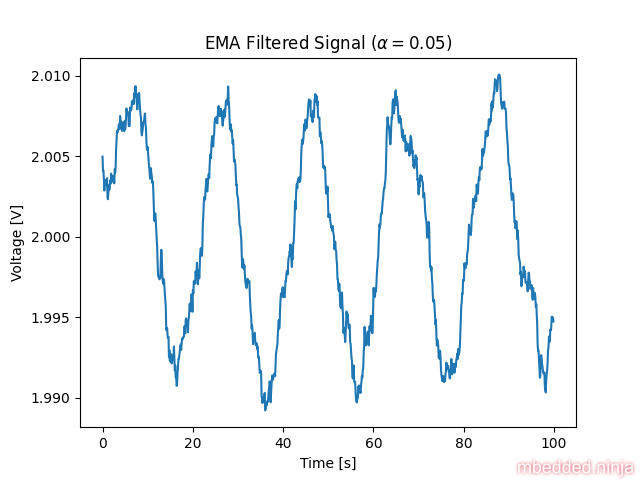
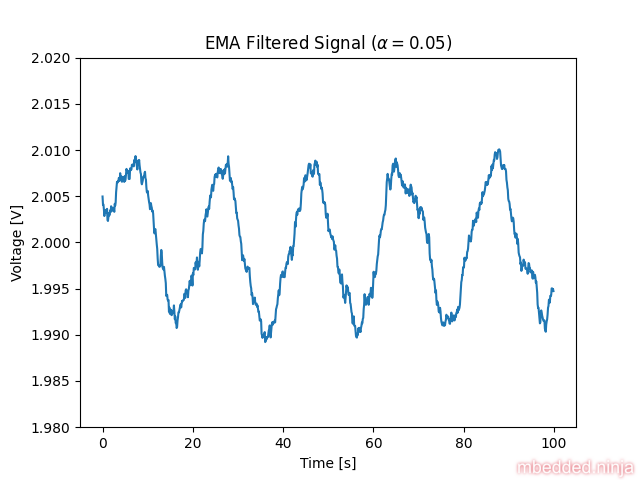
Add more graphs to the mains noise simulation page.

diff --git a/src/content/pages/programming/signal-processing/removing-mains-noise-from-adc-measurements/_assets/mains-noise-simulation/main.py b/src/content/pages/programming/signal-processing/removing-mains-noise-from-adc-measurements/_assets/mains-noise-simulation/main.py
@@ -2,6 +2,7 @@ from pathlib import Path
 
 import matplotlib.pyplot as plt
 import numpy as np
+from scipy import signal
 
 import util
 
@@ -23,6 +24,10 @@ def main():
     DIGITAL_SAMPLING_PERIOD_S = 0.1001
 
     total_sim_time_s = (NUM_DIGITAL_SAMPLES - 1) * DIGITAL_SAMPLING_PERIOD_S
+
+    #=========================================
+    # Analogue signal
+    #=========================================
 
     # Create graph of what the analog signal looks like. Need to make sure we sample well above the Nyquist frequency
     # Given the mains is 50Hz, lets have a sample interval of 1ms
@@ -58,6 +63,10 @@ def main():
     util.add_watermark_to_fig(fig)
     plt.savefig(SCRIPT_DIR / "analogue-signal-zoomed.png")
 
+    #=========================================
+    # Raw digital sampling
+    #=========================================
+
     # Now linearly interpolate the analogue signal to the digital sampling times
     digital_sampling_times_s = np.arange(0, total_sim_time_s, DIGITAL_SAMPLING_PERIOD_S)
     digital_signal = np.interp(digital_sampling_times_s, analogue_sampling_times_s, analogue_signal)
@@ -86,11 +95,157 @@ def main():
     ax.set_title(f"EMA Filtered Signal ($\\alpha = {alpha}$)")
     ax.set_xlabel("Time [s]")
     ax.set_ylabel("Voltage [V]")
+    DELTA_Y = 20e-3 # 20mV
+    ax.set_ylim(2 - DELTA_Y, 2 + DELTA_Y)
     util.add_watermark_to_fig(fig)
     plt.savefig(SCRIPT_DIR / "filtered-signal.png")
 
-    
+    #=========================================
+    # Add jitter
+    #=========================================
 
+    MAX_JITTER_AMOUNT_S = 20*1e-3 # 20ms of jitter, so measurement interval will be in the range [80, 120]ms.
+
+    jittered_sampling_times_s = []
+    current_time_s = 0
+    jittered_samples = []
+    while current_time_s < total_sim_time_s:
+        sampling_interval_s = DIGITAL_SAMPLING_PERIOD_S + np.random.uniform(-MAX_JITTER_AMOUNT_S, MAX_JITTER_AMOUNT_S)
+        jittered_sampling_times_s.append(current_time_s + sampling_interval_s)
+        current_time_s += sampling_interval_s
+        jittered_samples.append(np.interp(current_time_s, analogue_sampling_times_s, analogue_signal))
+
+    # Plot the jittered signal
+    fig, ax = plt.subplots()
+    ax.plot(jittered_sampling_times_s, jittered_samples)
+    ax.set_title("Jittered Signal")
+    ax.set_xlabel("Time [s]")
+    ax.set_ylabel("Voltage [V]")
+    ax.set_ylim(2 - DELTA_Y, 2 + DELTA_Y)
+    util.add_watermark_to_fig(fig)
+    plt.savefig(SCRIPT_DIR / "jittered-signal.png")
+
+    # Now filter the jittered signal
+    filtered_jittered_samples = filter_signal(jittered_samples, 0.05)
+
+    # Plot the filtered jittered signal
+    fig, ax = plt.subplots()
+    ax.plot(jittered_sampling_times_s, filtered_jittered_samples)
+    ax.set_title(f"EMA Filtered Jittered Signal ($\\alpha = {alpha}$)")
+    ax.set_xlabel("Time [s]")
+    ax.set_ylabel("Voltage [V]")
+    ax.set_ylim(2 - DELTA_Y, 2 + DELTA_Y)
+    util.add_watermark_to_fig(fig)
+    plt.savefig(SCRIPT_DIR / "filtered-jittered-signal.png")
+
+    #=========================================
+    # Sample in phase with the mains
+    #=========================================
+
+    # Now sample every 100ms, which will be in phase with the 20ms mains period
+    SAMPLE_IN_PHASE_INTERVAL_S = 100e-3
+    sampled_in_phase_times_s = []
+    sampled_in_phase_samples = []
+    current_time_s = 0
+    while current_time_s < total_sim_time_s:
+        sampled_in_phase_times_s.append(current_time_s)
+        sampled_in_phase_samples.append(np.interp(current_time_s, analogue_sampling_times_s, analogue_signal))
+        current_time_s += SAMPLE_IN_PHASE_INTERVAL_S
+
+    # Plot the sampled in phase signal
+    fig, ax = plt.subplots()
+    ax.plot(sampled_in_phase_times_s, sampled_in_phase_samples)
+    ax.set_title("\"Sampled in Phase\" Signal")
+    ax.set_xlabel("Time [s]")
+    ax.set_ylabel("Voltage [V]")
+    ax.set_ylim(2 - DELTA_Y, 2 + DELTA_Y)
+    util.add_watermark_to_fig(fig)
+    plt.savefig(SCRIPT_DIR / "sampled-in-phase-signal.png")
+
+    # Now filter the sampled in phase signal
+    filtered_sampled_in_phase_samples = filter_signal(sampled_in_phase_samples, 0.05)
+
+    # Plot the filtered sampled in phase signal
+    fig, ax = plt.subplots()
+    ax.plot(sampled_in_phase_times_s, filtered_sampled_in_phase_samples)
+    ax.set_title(f"EMA Filtered \"Sampled in Phase\" Signal ($\\alpha = {alpha}$)")
+    ax.set_xlabel("Time [s]")
+    ax.set_ylabel("Voltage [V]")
+    ax.set_ylim(2 - DELTA_Y, 2 + DELTA_Y)
+    util.add_watermark_to_fig(fig)
+    plt.savefig(SCRIPT_DIR / "filtered-sampled-in-phase-signal.png")
+
+    #=========================================
+    # Add an anti-aliasing filter
+    #=========================================
+
+    # Now simulate a low-pass RC filter with a cut-off frequency of 1Hz
+    RC_TIME_CONSTANT_S = 1e-3
+    # Note: This RC constant (1ms) corresponds to a cutoff frequency of approx. 159 Hz.
+    # The following code implements the requested 1Hz cutoff filter.
+
+    cutoff_freq_hz = 1.0  # Desired cutoff frequency for the RC filter
+    sampling_freq_hz = 1.0 / ANALOG_SAMPLING_PERIOD_S
+
+    # Design a 1st order Butterworth filter (equivalent to an RC filter)
+    # Normalize the cutoff frequency by the Nyquist frequency
+    nyquist_freq_hz = 0.5 * sampling_freq_hz
+    normalized_cutoff = cutoff_freq_hz / nyquist_freq_hz
+    
+    # Get the filter coefficients (numerator b, denominator a)
+    # For a first-order filter, N=1
+    b_rc, a_rc = signal.butter(1, normalized_cutoff, btype='low', analog=False)
+
+    # Apply the filter to the analogue signal
+    # signal.filtfilt applies the filter forwards and backwards, resulting in zero phase distortion
+    analogue_signal_rc_filtered = signal.filtfilt(b_rc, a_rc, analogue_signal)
+
+    # Plot the RC filtered analogue signal
+    fig, ax = plt.subplots()
+    ax.plot(analogue_sampling_times_s, analogue_signal_rc_filtered, label=f'RC Filtered ({cutoff_freq_hz}Hz Cutoff)')
+    # Optionally, plot the original analogue signal for comparison
+    # ax.plot(analogue_sampling_times_s, analogue_signal, label='Original Analogue Signal', alpha=0.5, linestyle=':')
+    ax.set_title(f"Analogue Signal with {cutoff_freq_hz}Hz RC Low-pass Filter")
+    ax.set_xlabel("Time [s]")
+    ax.set_ylabel("Voltage [V]")
+    # Match the y-limits of the original analogue signal plot for consistency
+    ax.set_ylim(0, 2.5) 
+    ax.legend()
+    util.add_watermark_to_fig(fig)
+    plt.savefig(SCRIPT_DIR / "analogue-signal-rc-filtered.png")
+
+    # Zoom in the y-axis
+    fig, ax = plt.subplots()
+    ax.plot(analogue_sampling_times_s, analogue_signal_rc_filtered)
+    ax.set_title(f"Analogue Signal with {cutoff_freq_hz}Hz RC Low-pass Filter (Zoomed)")
+    ax.set_xlabel("Time [s]")
+    ax.set_ylabel("Voltage [V]")
+    ax.set_ylim(2 - DELTA_Y, 2 + DELTA_Y)
+    util.add_watermark_to_fig(fig)
+    plt.savefig(SCRIPT_DIR / "analogue-signal-rc-filtered-zoomed.png")
+
+    # Now linearly interpolate the analogue signal to the digital sampling times
+    digital_sampling_times_s = np.arange(0, total_sim_time_s, DIGITAL_SAMPLING_PERIOD_S)
+    digital_signal_rc_filtered = np.interp(digital_sampling_times_s, analogue_sampling_times_s, analogue_signal_rc_filtered)
+
+    # Plot the digital signal
+    fig, ax = plt.subplots()
+    ax.plot(digital_sampling_times_s, digital_signal_rc_filtered)
+    ax.set_title(f"Digital Signal with {cutoff_freq_hz}Hz RC Low-pass Filter")
+    ax.set_xlabel("Time [s]")
+    ax.set_ylabel("Voltage [V]")
+    util.add_watermark_to_fig(fig)
+    plt.savefig(SCRIPT_DIR / "digital-signal-rc-filtered.png")
+
+
+def filter_signal(signal_data, alpha):
+    filtered_values = []
+    for i in range(len(signal_data)):
+        if i == 0:
+            filtered_values.append(signal_data[i])
+        else:
+            filtered_values.append(alpha * signal_data[i] + (1 - alpha) * filtered_values[i - 1])
+    return filtered_values
 
 if __name__ == "__main__":
     main()
